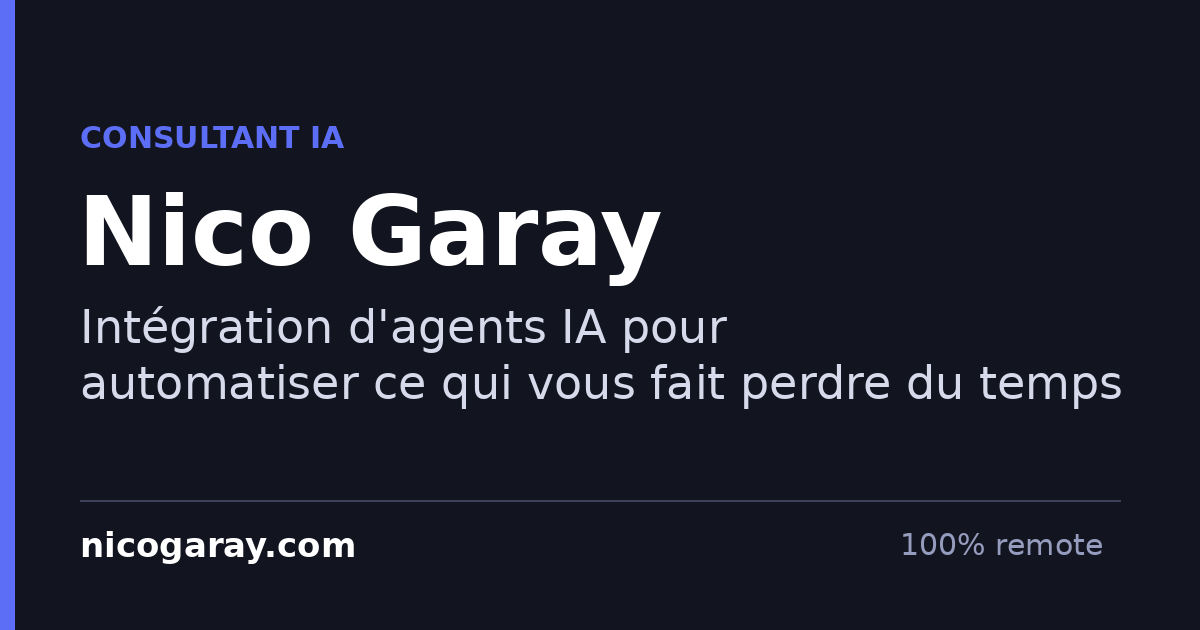
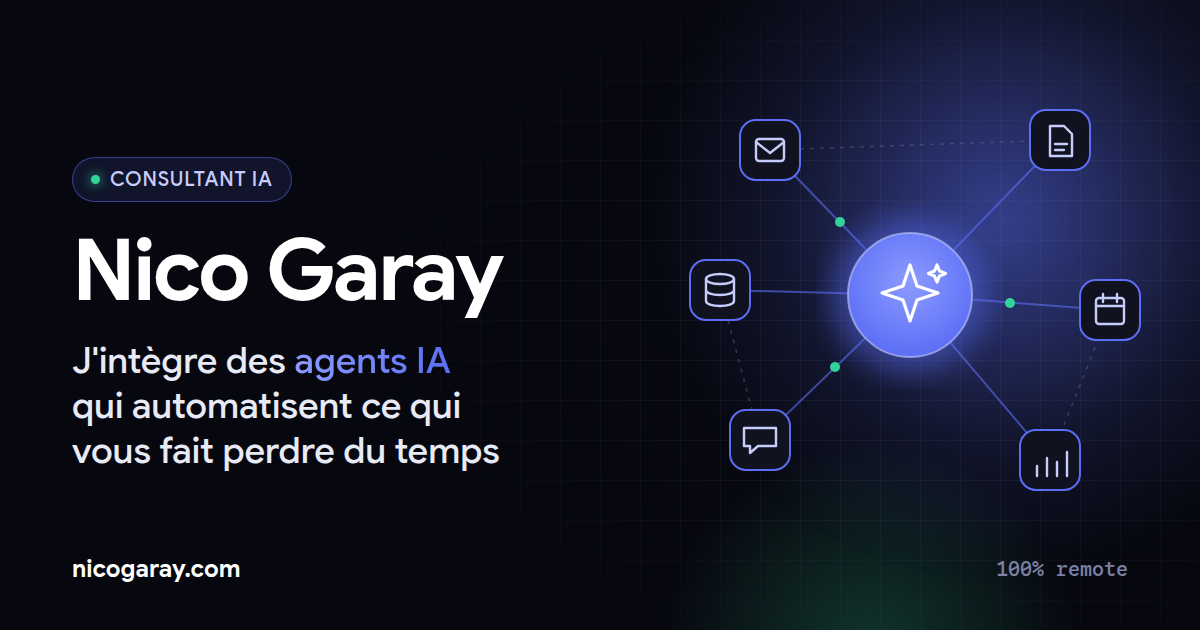
Redesign share image and add English version (#68)
The /en pages had no og:image, so links shared from them showed no preview.
New graphic design (agent graph, brand indigo, site fonts) for FR and EN,
with the HTML template kept in tools/og to regenerate them.

diff --git a/tools/og/og.html b/tools/og/og.html
@@ -1,0 +1,95 @@
+<!doctype html>
+<!-- Share image template. Render at 1200x630: chrome --headless=new --window-size=1200,630 --screenshot=out.png "og.html?lang=fr|en" -->
+<html>
+<head>
+<meta charset="utf-8">
+<link href="https://fonts.googleapis.com/css2?family=Google+Sans:wght@400;500;700&family=Google+Sans+Code:wght@500&display=block" rel="stylesheet">
+<style>
+  :root { --bg:#07080f; --accent:#5b6ef5; --green:#34d399; --muted:#7c82a3; --text:#e8eaf6; }
+  * { margin:0; padding:0; box-sizing:border-box; }
+  html, body { width:1200px; height:630px; overflow:hidden; background:var(--bg); }
+  .card { position:relative; width:1200px; height:630px; font-family:"Google Sans", sans-serif; color:var(--text); overflow:hidden; }
+  .grid { position:absolute; inset:0;
+    background-image: linear-gradient(rgba(124,130,163,.09) 1px, transparent 1px), linear-gradient(90deg, rgba(124,130,163,.09) 1px, transparent 1px);
+    background-size: 40px 40px;
+    mask-image: radial-gradient(ellipse 70% 90% at 78% 50%, #000 30%, transparent 75%); }
+  .glow1 { position:absolute; width:720px; height:720px; right:-160px; top:-140px; border-radius:50%;
+    background: radial-gradient(circle, rgba(91,110,245,.55) 0%, rgba(91,110,245,.12) 45%, transparent 70%); filter: blur(10px); }
+  .glow2 { position:absolute; width:420px; height:420px; right:120px; bottom:-230px; border-radius:50%;
+    background: radial-gradient(circle, rgba(52,211,153,.22) 0%, transparent 70%); }
+  .text { position:absolute; left:72px; top:0; bottom:0; width:600px; display:flex; flex-direction:column; justify-content:center; }
+  .pill { align-self:flex-start; display:flex; align-items:center; gap:10px; padding:9px 18px; border-radius:999px;
+    border:1px solid rgba(91,110,245,.5); background:rgba(91,110,245,.12); font-size:20px; font-weight:500; color:#c7cdfb; letter-spacing:.04em; }
+  .dot { width:9px; height:9px; border-radius:50%; background:var(--green); box-shadow:0 0 12px var(--green); }
+  h1 { margin-top:26px; font-size:86px; font-weight:700; letter-spacing:-.03em; line-height:1; color:#fff; }
+  .sub { margin-top:24px; font-size:36px; line-height:1.25; font-weight:500; color:var(--text); }
+  .sub em { font-style:normal; background:linear-gradient(90deg,#8c9bff,var(--accent)); -webkit-background-clip:text; color:transparent; }
+  .foot { position:absolute; left:72px; right:72px; bottom:46px; display:flex; justify-content:space-between; align-items:center; font-size:24px; }
+  .foot b { font-weight:700; color:#fff; }
+  .foot span { color:var(--muted); font-family:"Google Sans Code", monospace; font-size:20px; }
+  svg { position:absolute; right:40px; top:60px; }
+</style>
+</head>
+<body>
+<div class="card">
+  <div class="glow1"></div><div class="glow2"></div><div class="grid"></div>
+
+  <!-- Agent graph: one central agent orchestrating tools -->
+  <svg width="500" height="470" viewBox="0 0 500 470">
+    <defs>
+      <radialGradient id="core" cx="50%" cy="40%" r="60%">
+        <stop offset="0" stop-color="#8c9bff"/><stop offset="1" stop-color="#5b6ef5"/>
+      </radialGradient>
+      <filter id="blur"><feGaussianBlur stdDeviation="14"/></filter>
+    </defs>
+    <g stroke="#5b6ef5" stroke-width="2" stroke-opacity=".6" fill="none">
+      <path d="M250 235 L110 90"/><path d="M250 235 L400 80"/><path d="M250 235 L450 250"/>
+      <path d="M250 235 L390 400"/><path d="M250 235 L100 380"/><path d="M250 235 L60 230"/>
+    </g>
+    <g stroke="#7c82a3" stroke-width="1.5" stroke-opacity=".35" stroke-dasharray="4 6" fill="none">
+      <path d="M110 90 L400 80"/><path d="M450 250 L390 400"/><path d="M100 380 L60 230"/>
+    </g>
+    <!-- data pulses on the edges -->
+    <g fill="#34d399"><circle cx="180" cy="162" r="5"/><circle cx="350" cy="243" r="5"/><circle cx="175" cy="307" r="5"/></g>
+    <!-- tool nodes -->
+    <g fill="#10121f" stroke="#5b6ef5" stroke-width="2">
+      <rect x="80" y="60" width="60" height="60" rx="16"/><rect x="370" y="50" width="60" height="60" rx="16"/>
+      <rect x="420" y="220" width="60" height="60" rx="16"/><rect x="360" y="370" width="60" height="60" rx="16"/>
+      <rect x="70" y="350" width="60" height="60" rx="16"/><rect x="30" y="200" width="60" height="60" rx="16"/>
+    </g>
+    <!-- simple glyphs inside tool nodes: mail, doc, calendar, chart, chat, db -->
+    <g stroke="#c7cdfb" stroke-width="2.4" fill="none" stroke-linecap="round" stroke-linejoin="round">
+      <rect x="96" y="79" width="28" height="22" rx="3"/><path d="M96 82 L110 93 L124 82"/>
+      <path d="M390 66 h14 l8 8 v22 h-22 z"/><path d="M395 84 h12 M395 90 h9"/>
+      <rect x="436" y="238" width="28" height="26" rx="3"/><path d="M436 246 h28 M443 234 v8 M457 234 v8"/>
+      <path d="M377 416 v-10 M387 416 v-18 M397 416 v-14 M407 416 v-24"/>
+      <path d="M84 368 h32 v18 h-18 l-8 7 v-7 h-6 z"/>
+      <ellipse cx="60" cy="219" rx="14" ry="5"/><path d="M46 219 v22 c0 3 6 5 14 5 s14-2 14-5 v-22 M46 230 c0 3 6 5 14 5 s14-2 14-5"/>
+    </g>
+    <!-- central agent -->
+    <circle cx="250" cy="235" r="78" fill="#5b6ef5" opacity=".45" filter="url(#blur)"/>
+    <circle cx="250" cy="235" r="62" fill="url(#core)" stroke="#c7cdfb" stroke-opacity=".6" stroke-width="2"/>
+    <g fill="none" stroke="#fff" stroke-width="3.2" stroke-linecap="round" stroke-linejoin="round">
+      <path d="M250 205 l7 21 21 7 -21 7 -7 21 -7 -21 -21 -7 21 -7 z"/>
+      <path d="M277 205 l2.5 6 6 2.5 -6 2.5 -2.5 6 -2.5 -6 -6 -2.5 6 -2.5 z"/>
+    </g>
+  </svg>
+
+  <div class="text">
+    <div class="pill"><span class="dot"></span><span id="kicker"></span></div>
+    <h1>Nico Garay</h1>
+    <p class="sub" id="sub"></p>
+  </div>
+  <div class="foot"><b>nicogaray.com</b><span id="remote">100% remote</span></div>
+</div>
+<script>
+  const T = {
+    fr: { kicker: "CONSULTANT IA", sub: "J'intègre des <em>agents IA</em><br>qui automatisent ce qui<br>vous fait perdre du temps" },
+    en: { kicker: "AI CONSULTANT", sub: "I integrate <em>AI agents</em><br>that automate what<br>wastes your time" },
+  };
+  const t = T[new URLSearchParams(location.search).get("lang") || "fr"];
+  document.getElementById("kicker").textContent = t.kicker;
+  document.getElementById("sub").innerHTML = t.sub;
+</script>
+</body>
+</html>

diff --git a/en/us/index.html b/en/us/index.html
@@ -30,9 +30,13 @@
   <meta property="og:url" content="https://nicogaray.com/en/us/" />
   <meta property="og:locale" content="en_US" />
   <meta property="og:locale:alternate" content="fr_FR" />
+  <meta property="og:image" content="https://nicogaray.com/og-nicogaray-en.png" />
+  <meta property="og:image:width" content="1200" />
+  <meta property="og:image:height" content="630" />
   <meta name="twitter:card" content="summary_large_image" />
   <meta name="twitter:title" content="AI Agent Consultant in the United States - Automate Repetitive Work | Nico Garay" />
   <meta name="twitter:description" content="Private AI agents for small businesses in the United States. Less busywork, more time on what matters. Fully remote." />
+  <meta name="twitter:image" content="https://nicogaray.com/og-nicogaray-en.png" />
   <script type="application/ld+json">
   {
     "@context": "https://schema.org",

diff --git a/en/sg/index.html b/en/sg/index.html
@@ -30,9 +30,13 @@
   <meta property="og:url" content="https://nicogaray.com/en/sg/" />
   <meta property="og:locale" content="en_US" />
   <meta property="og:locale:alternate" content="fr_FR" />
+  <meta property="og:image" content="https://nicogaray.com/og-nicogaray-en.png" />
+  <meta property="og:image:width" content="1200" />
+  <meta property="og:image:height" content="630" />
   <meta name="twitter:card" content="summary_large_image" />
   <meta name="twitter:title" content="AI Agent Consultant in Singapore - Automate Repetitive Work | Nico Garay" />
   <meta name="twitter:description" content="Private AI agents for small businesses in Singapore. Less busywork, more time on what matters. Fully remote." />
+  <meta name="twitter:image" content="https://nicogaray.com/og-nicogaray-en.png" />
   <script type="application/ld+json">
   {
     "@context": "https://schema.org",

diff --git a/en/ca/index.html b/en/ca/index.html
@@ -30,9 +30,13 @@
   <meta property="og:url" content="https://nicogaray.com/en/ca/" />
   <meta property="og:locale" content="en_US" />
   <meta property="og:locale:alternate" content="fr_FR" />
+  <meta property="og:image" content="https://nicogaray.com/og-nicogaray-en.png" />
+  <meta property="og:image:width" content="1200" />
+  <meta property="og:image:height" content="630" />
   <meta name="twitter:card" content="summary_large_image" />
   <meta name="twitter:title" content="AI Agent Consultant in Canada - Automate Repetitive Work | Nico Garay" />
   <meta name="twitter:description" content="Private AI agents for small businesses in Canada. Less busywork, more time on what matters. Fully remote." />
+  <meta name="twitter:image" content="https://nicogaray.com/og-nicogaray-en.png" />
   <script type="application/ld+json">
   {
     "@context": "https://schema.org",

diff --git a/en/gb/index.html b/en/gb/index.html
@@ -30,9 +30,13 @@
   <meta property="og:url" content="https://nicogaray.com/en/gb/" />
   <meta property="og:locale" content="en_US" />
   <meta property="og:locale:alternate" content="fr_FR" />
+  <meta property="og:image" content="https://nicogaray.com/og-nicogaray-en.png" />
+  <meta property="og:image:width" content="1200" />
+  <meta property="og:image:height" content="630" />
   <meta name="twitter:card" content="summary_large_image" />
   <meta name="twitter:title" content="AI Agent Consultant in the UK - Automate Repetitive Work | Nico Garay" />
   <meta name="twitter:description" content="Private AI agents for small businesses in the UK. Less busywork, more time on what matters. Fully remote." />
+  <meta name="twitter:image" content="https://nicogaray.com/og-nicogaray-en.png" />
   <script type="application/ld+json">
   {
     "@context": "https://schema.org",

diff --git a/en/index.html b/en/index.html
@@ -30,9 +30,13 @@
   <meta property="og:url" content="https://nicogaray.com/en/" />
   <meta property="og:locale" content="en_US" />
   <meta property="og:locale:alternate" content="fr_FR" />
+  <meta property="og:image" content="https://nicogaray.com/og-nicogaray-en.png" />
+  <meta property="og:image:width" content="1200" />
+  <meta property="og:image:height" content="630" />
   <meta name="twitter:card" content="summary_large_image" />
   <meta name="twitter:title" content="Nico Garay - AI Agent Integration Consultant" />
   <meta name="twitter:description" content="I equip your company with the best AI agents to automate the rest and maximize performance." />
+  <meta name="twitter:image" content="https://nicogaray.com/og-nicogaray-en.png" />
   <script type="application/ld+json">
   {
     "@context": "https://schema.org",
